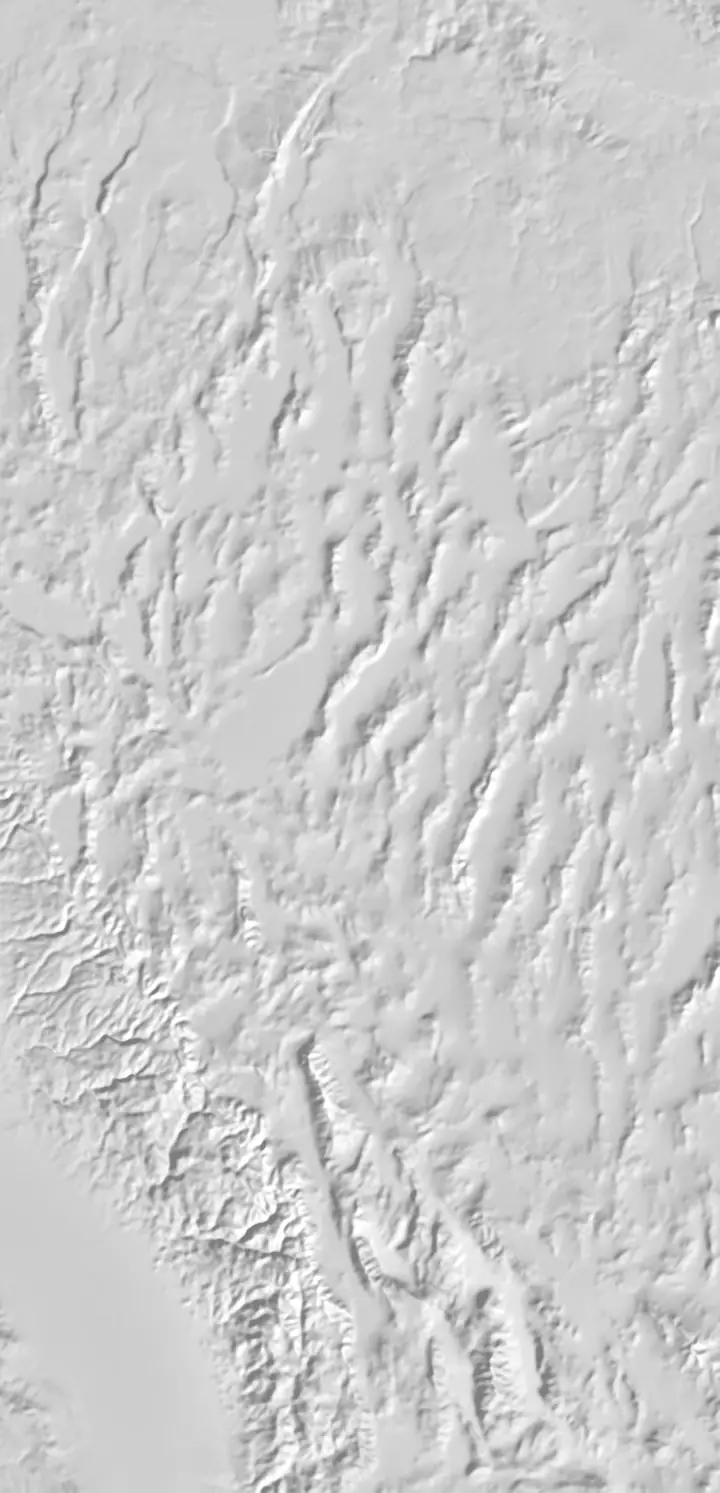
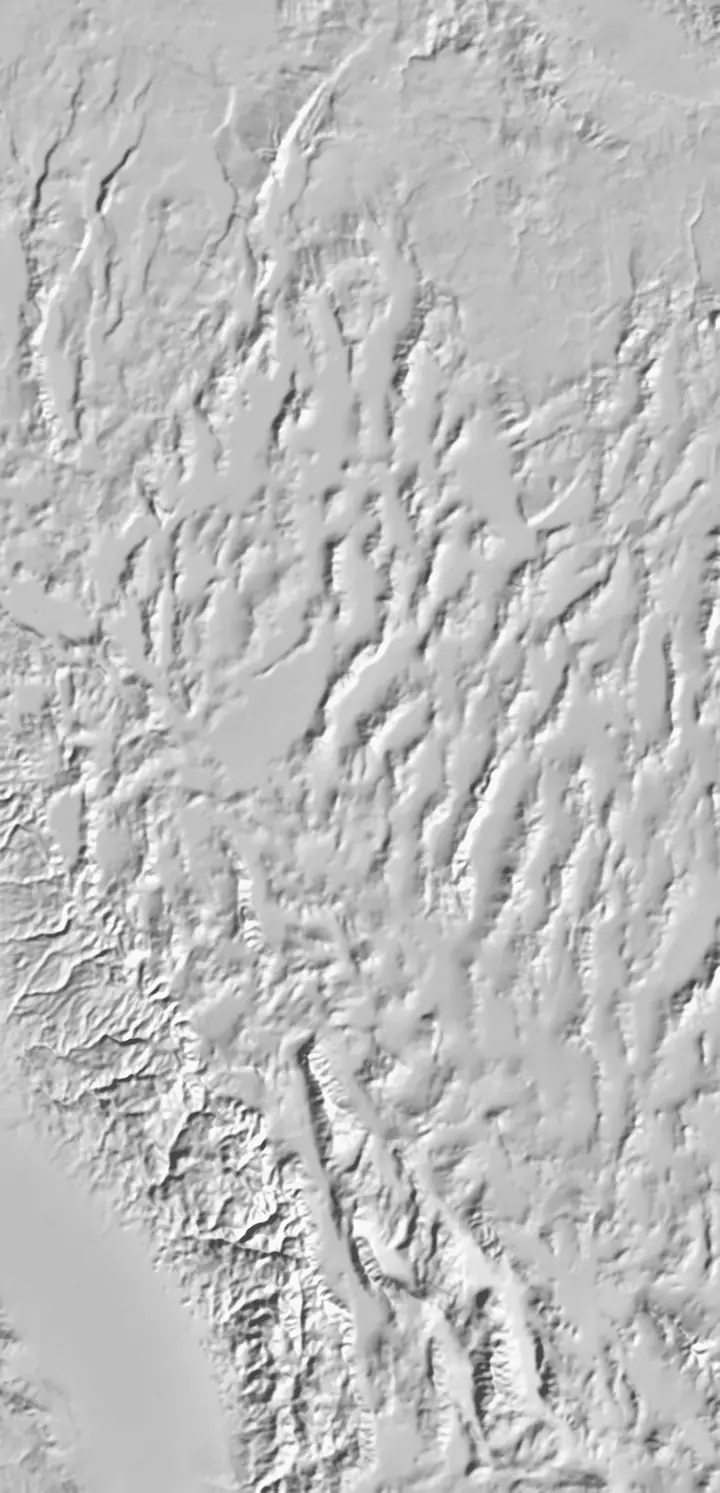
Backdrop: the relief texture is stronger and has more contrast, so its dark lines carry the colour deeper
Claude-Session: https://claude.ai/code/session_019ScXQ8sHsYgxna3QQGngaP

diff --git a/app/src/main/java/io/github/genesjc/microclimatefinder/ui/theme/AppBackground.kt b/app/src/main/java/io/github/genesjc/microclimatefinder/ui/theme/AppBackground.kt
@@ -106,7 +106,7 @@ fun AppBackground(darkTheme: Boolean, regionId: String? = null, content: @Compos
 private val DEFAULT_CORNER = Color(0xFFF3A583)
 
 /** How strongly the relief texture shows over the light backdrop (0 = not at all). */
-private const val BACKDROP_TEXTURE_STRENGTH = 0.65f
+private const val BACKDROP_TEXTURE_STRENGTH = 0.85f
 
 /**
  * A soft tint of the region's picker colour for the backdrop corners: the muted earth tone, about a quarter of the way to white,

diff --git a/app/src/main/java/io/github/genesjc/microclimatefinder/BuildInfo.kt b/app/src/main/java/io/github/genesjc/microclimatefinder/BuildInfo.kt
@@ -5,5 +5,5 @@ package io.github.genesjc.microclimatefinder
  * Bump the commit number with every commit, so a screenshot tells you exactly which build is running.
  */
 object BuildInfo {
-    const val LABEL = "49.71"
+    const val LABEL = "49.72"
 }
